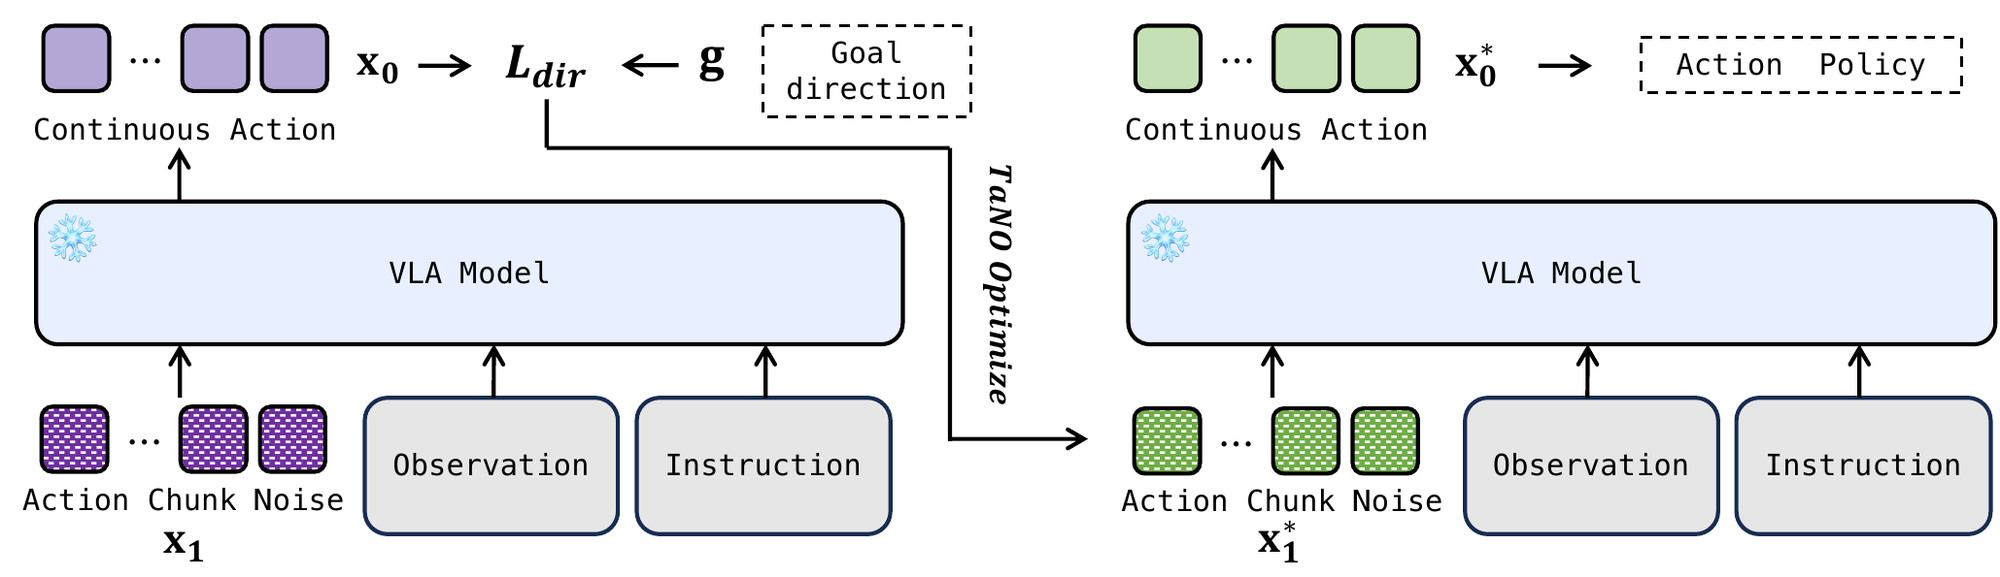
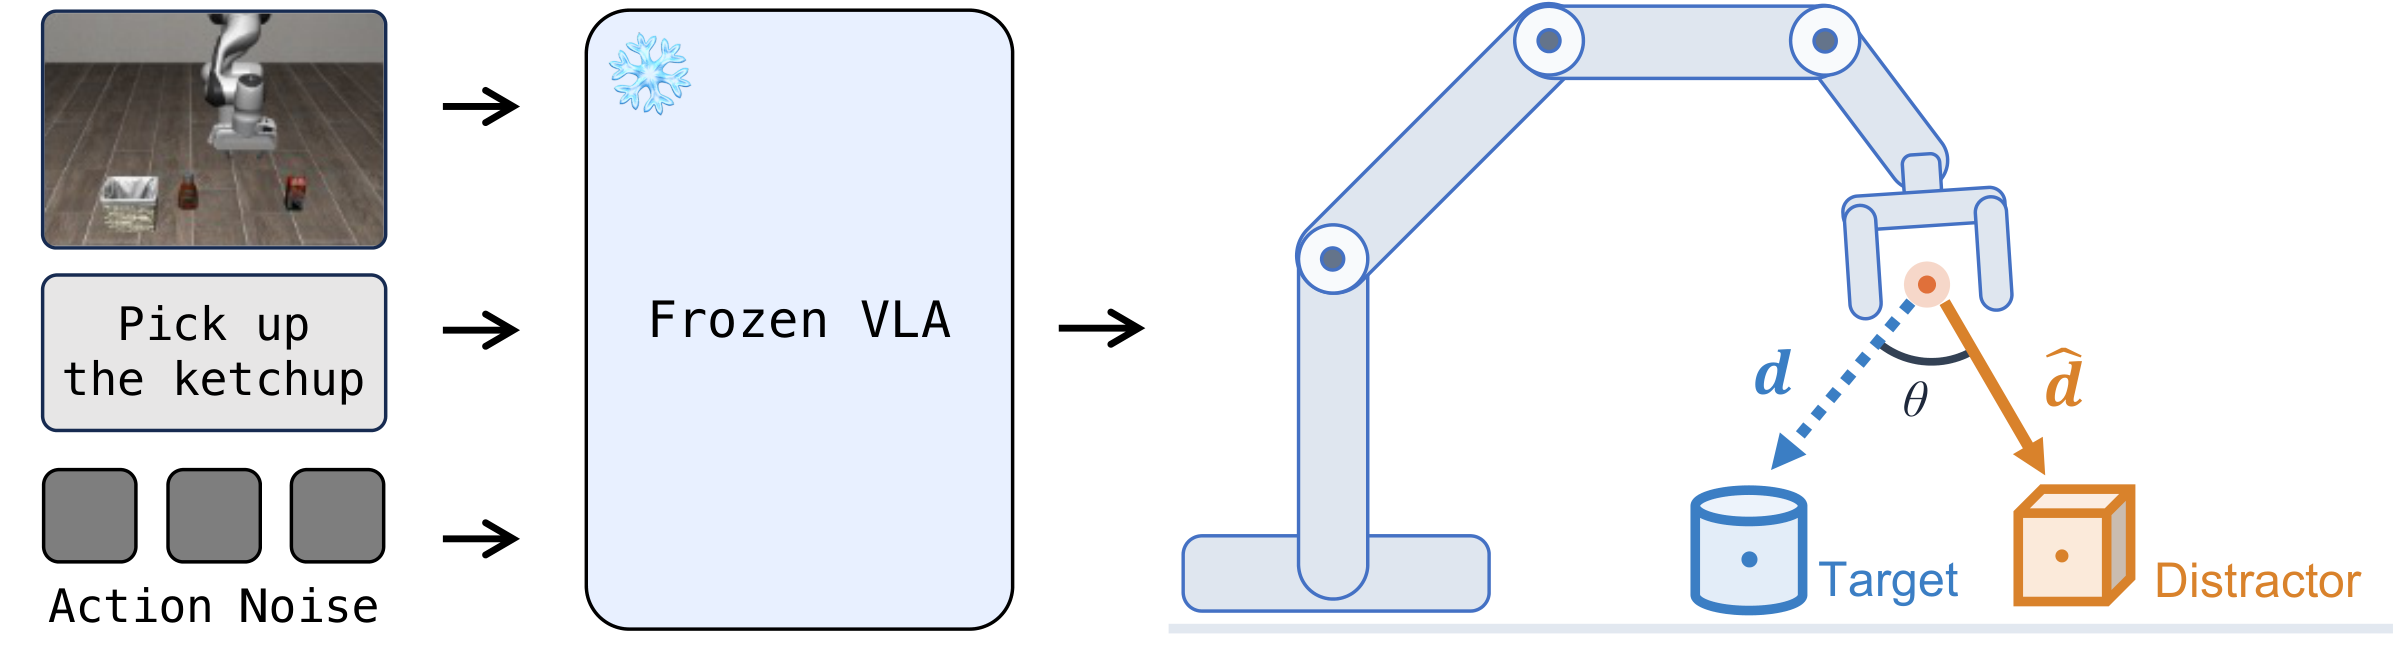
Sync README, citation, and figures with the final KSC paper
- New title: Test-Time Steering of VLAs via Initial-Noise Optimization
- Replace teaser/method figures with the final paper versions
- Rename instruction/position swap to task/position perturbation
- Full results table (pi0.5, MolmoAct2, SmolVLA) and compute cost
- Drop xy-only steering wording; align intro with the paper abstract

diff --git a/README.md b/README.md
@@ -1,26 +1,27 @@
-# PilotVLA: Training-Free Steering of Flow-Matching VLAs via Initial Noise
+# PilotVLA: Test-Time Steering of VLAs via Initial-Noise Optimization
 
 **Junpyo Hong, Sunghun Kim, Junho Kim, Geo Ahn, Jinwoo Choi**
 Kyung Hee University
 
-Under review at KSC 2026 (Korea Software Congress)
+KSC 2026 (Korea Software Congress)
 
 <p align="center">
   <img src="assets/teaser.png" width="70%" alt="PilotVLA teaser">
 </p>
 
-**PilotVLA** (**P**olicy steering by **I**nitial-noise **L**atent **O**ptimization at **T**est time) is a zero-training,
+**PilotVLA** (**P**olicy steering by **I**nitial-noise **L**atent **O**ptimization at **T**est time) is a training-free
 test-time steering method for flow-matching VLA policies such as $\pi_{0.5}$.
 When the test-time instruction or object layout deviates from the training
-distribution (e.g., target objects are swapped), a frozen policy fails in a
-characteristically *directional* way: reaching and grasping stay intact, but
-the robot heads to where the target used to be during training. PilotVLA repairs
-these failures by optimizing **only the initial noise** of the flow-matching
-sampler: at every replanning step it backpropagates through a differentiable
-Euler unrolling of the flow ODE and minimizes a cosine loss between the
-predicted chunk's planar displacement and the direction toward the goal
-object. The model weights and inputs are untouched; only the horizontal (xy)
-action dimensions are steered; steering is released before manipulation.
+distribution (e.g., the requested object or the object positions change), a
+frozen policy fails in a characteristically *directional* way: reaching and
+grasping stay intact, but the robot heads to the object location seen during
+training. PilotVLA repairs these failures by optimizing **only the initial
+noise** of the flow-matching sampler: at every replanning step it
+backpropagates through a differentiable Euler unrolling of the flow ODE and
+minimizes a cosine loss between the displacement of the predicted action chunk
+and the direction toward the target object. The model weights and inputs are
+untouched, and steering is released early so that the frozen policy completes
+the task.
 
 <p align="center">
   <img src="assets/method.png" width="100%" alt="PilotVLA pipeline">
@@ -28,30 +29,35 @@ action dimensions are steered; steering is released before manipulation.
 
 ## Results
 
-Swap benchmarks built on LIBERO (1,000 episodes per condition, paired seeds):
+Success rate (%) on the LIBERO-based task- and position-perturbation
+benchmarks (1,000 episodes per model, paired seeds) and on three
+LIBERO-Plus axes (language 480, layout 340, robot initial pose 300 episodes):
 
-| Method | Instruction swap | Position swap |
-|---|---|---|
-| Baseline (frozen $\pi_{0.5}$) | 28.6 | 10.6 |
-| **PilotVLA (ours)** | **66.0** | **55.0** |
+| Model | Method | Task pert. | Position pert. | Lang. | Layout | R-Init |
+|---|---|---|---|---|---|---|
+| $\pi_{0.5}$ | Baseline | 28.6 | 10.6 | 89.2 | **98.2** | 85.0 |
+| | **PilotVLA** | **66.0** | **55.0** | **98.8** | 95.0 | **91.7** |
+| MolmoAct2 | Baseline | 35.3 | 28.1 | 90.8 | **99.4** | 75.7 |
+| | **PilotVLA** | **76.5** | **63.2** | **94.0** | 95.6 | **86.0** |
+| SmolVLA | Baseline | 0.5 | 0.6 | 16.2 | 47.1 | 31.0 |
+| | **PilotVLA** | **16.0** | **6.8** | **30.8** | **50.0** | **47.7** |
 
-LIBERO-Plus robustness suite by perturbation axis (success rate, %):
+This release contains the $\pi_{0.5}$ code; MolmoAct2 and SmolVLA were run
+with the same steering, unchanged except that MolmoAct2 uses its full chunk
+($K = 10$ instead of $K = 30$). Over a typical 30-replan episode on
+$\pi_{0.5}$, steering costs 236 vs. 151 TFLOPs (1.6×): the VLM backbone still
+runs once per replan, and gradients flow only through the action expert.
 
-| Method | Language | Layout | Robot-Init |
-|---|---|---|---|
-| Baseline | 89 | **98** | 85 |
-| **PilotVLA (ours)** | **99** | 95 | **92** |
-
-> The goal coordinate is read from the simulator (an *oracle* goal signal), so
-> these numbers are an upper bound on what noise-space steering can recover
-> when the goal direction is known — see the paper's discussion. The method
-> needs only a coarse planar direction, not a precise pose.
+> The target coordinate is read from the simulator (an *oracle* signal), so
+> these numbers show what noise-space steering can recover when the target
+> direction is known. The method needs only a coarse direction, not a
+> precise pose.
 
 ## Repository layout
 
 ```
 pilotvla/
-  rollout_swap.py    swap-benchmark rollouts (baseline / PilotVLA / extra baselines)
+  rollout_swap.py    task/position-perturbation rollouts (baseline / PilotVLA / extra baselines)
   pi05_adapter.py    lerobot pi0.5 loading + processor pipeline
   libero_utils.py    LIBERO env helpers
   metrics.py         episode success metrics (asked-in-basket, lifts, reach)
@@ -78,14 +84,16 @@ HuggingFace Hub on first use. Rendering uses MuJoCo EGL (headless).
 
 ## Usage
 
-**Instruction swap** (paper setting: fixed-horizon release, 10 replans = 50 steps):
+The code calls the two perturbation benchmarks *swap* (`swaproll`, `--posswap`).
+
+**Task perturbation** (paper setting: fixed-horizon release, 10 replans = 50 steps):
 
 ```bash
 OUT=out/swaproll CONDS="none noiseopt" NGPU=4 \
   EXTRA="--release_replans 10" bash scripts/run_swap.sh
 ```
 
-**Position swap**:
+**Position perturbation**:
 
 ```bash
 OUT=out/posswaproll CONDS="none noiseopt" NGPU=4 \
@@ -124,8 +132,7 @@ goal-perturbation robustness ablation.
 
 ```bibtex
 @inproceedings{hong2026pilotvla,
-  title     = {PilotVLA: Training-Free Steering of Flow-Matching VLAs via
-               Initial Noise},
+  title     = {PilotVLA: Test-Time Steering of VLAs via Initial-Noise Optimization},
   author    = {Hong, Junpyo and Kim, Sunghun and Kim, Junho and Ahn, Geo and Choi, Jinwoo},
   booktitle = {Korea Software Congress (KSC)},
   year      = {2026}
